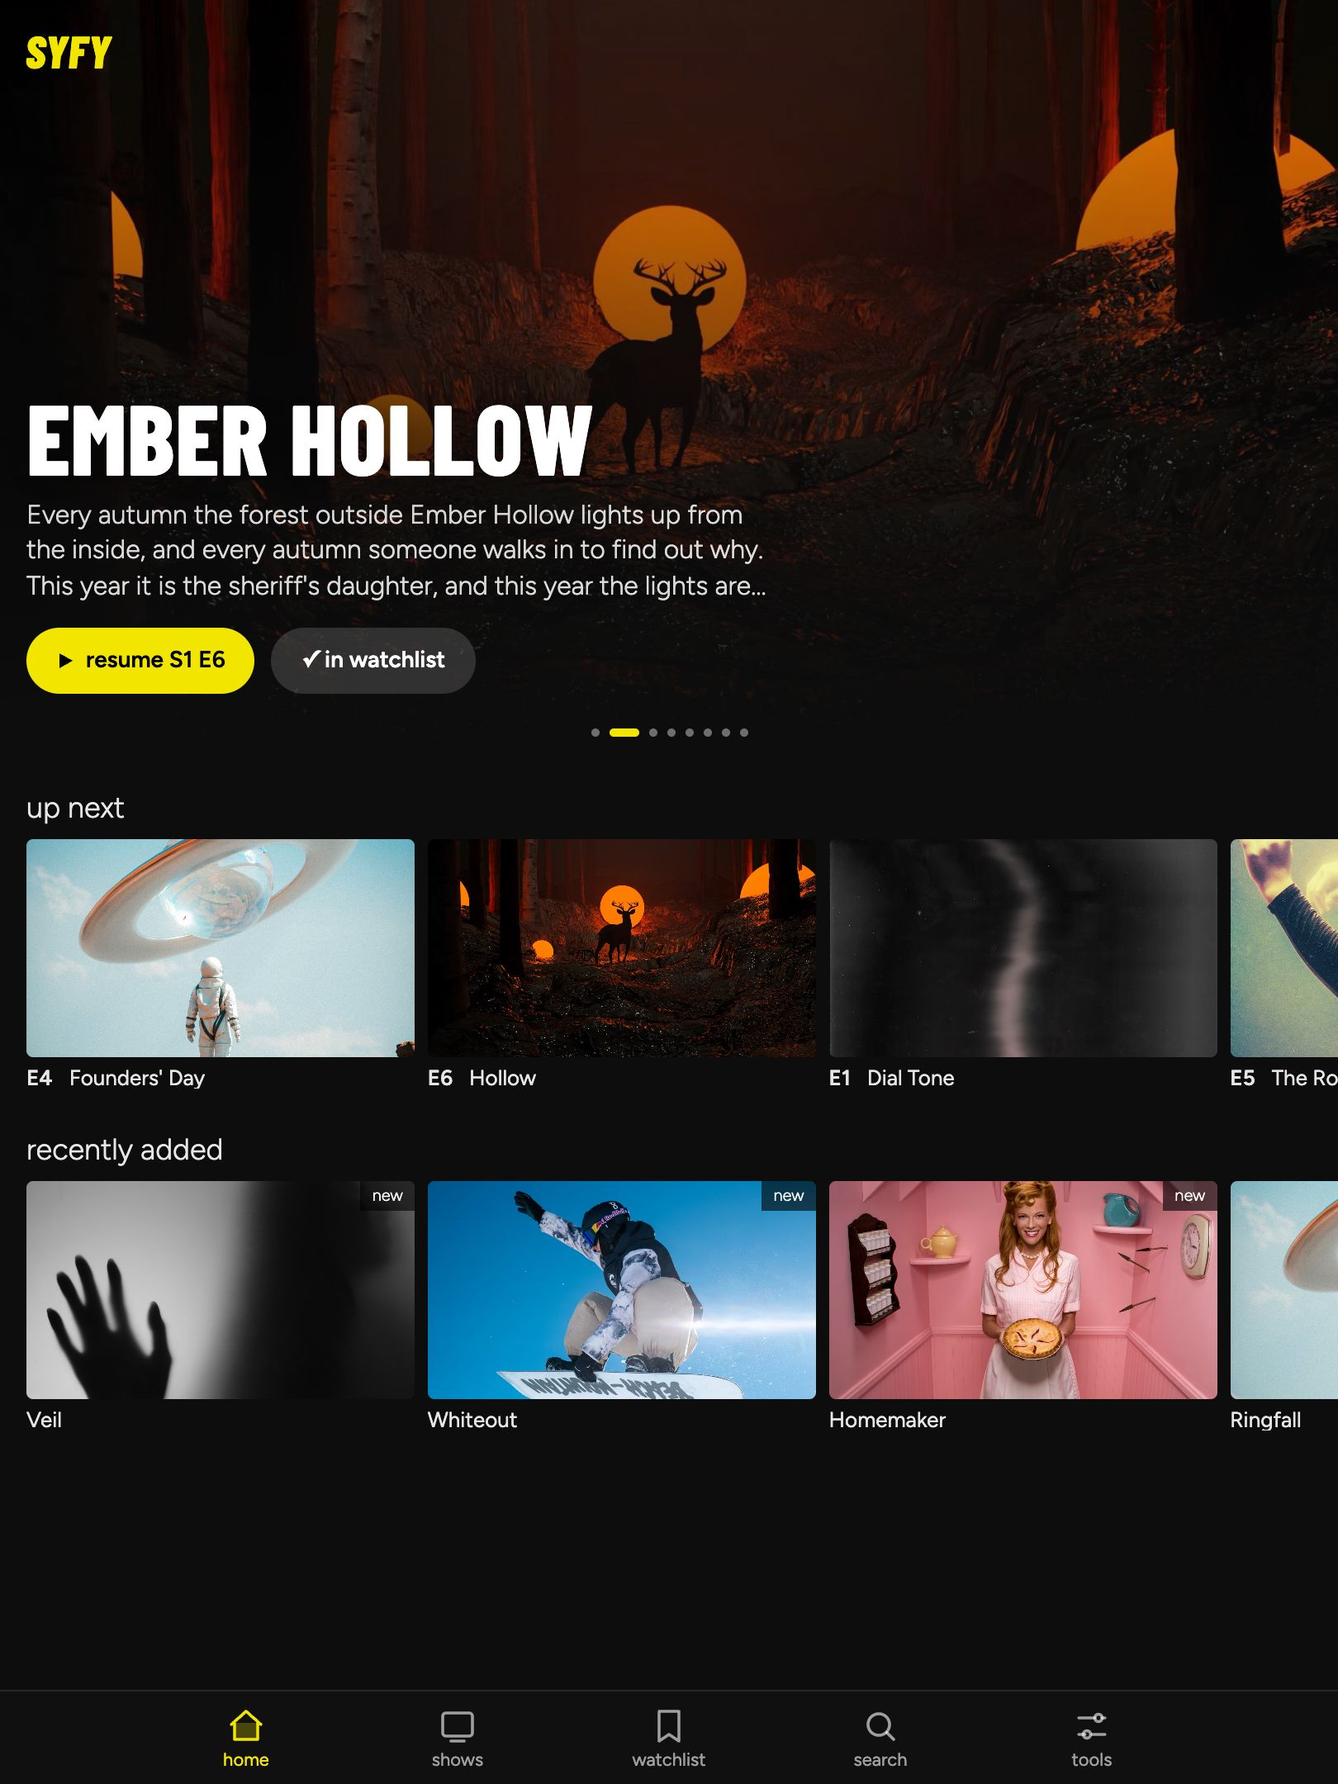
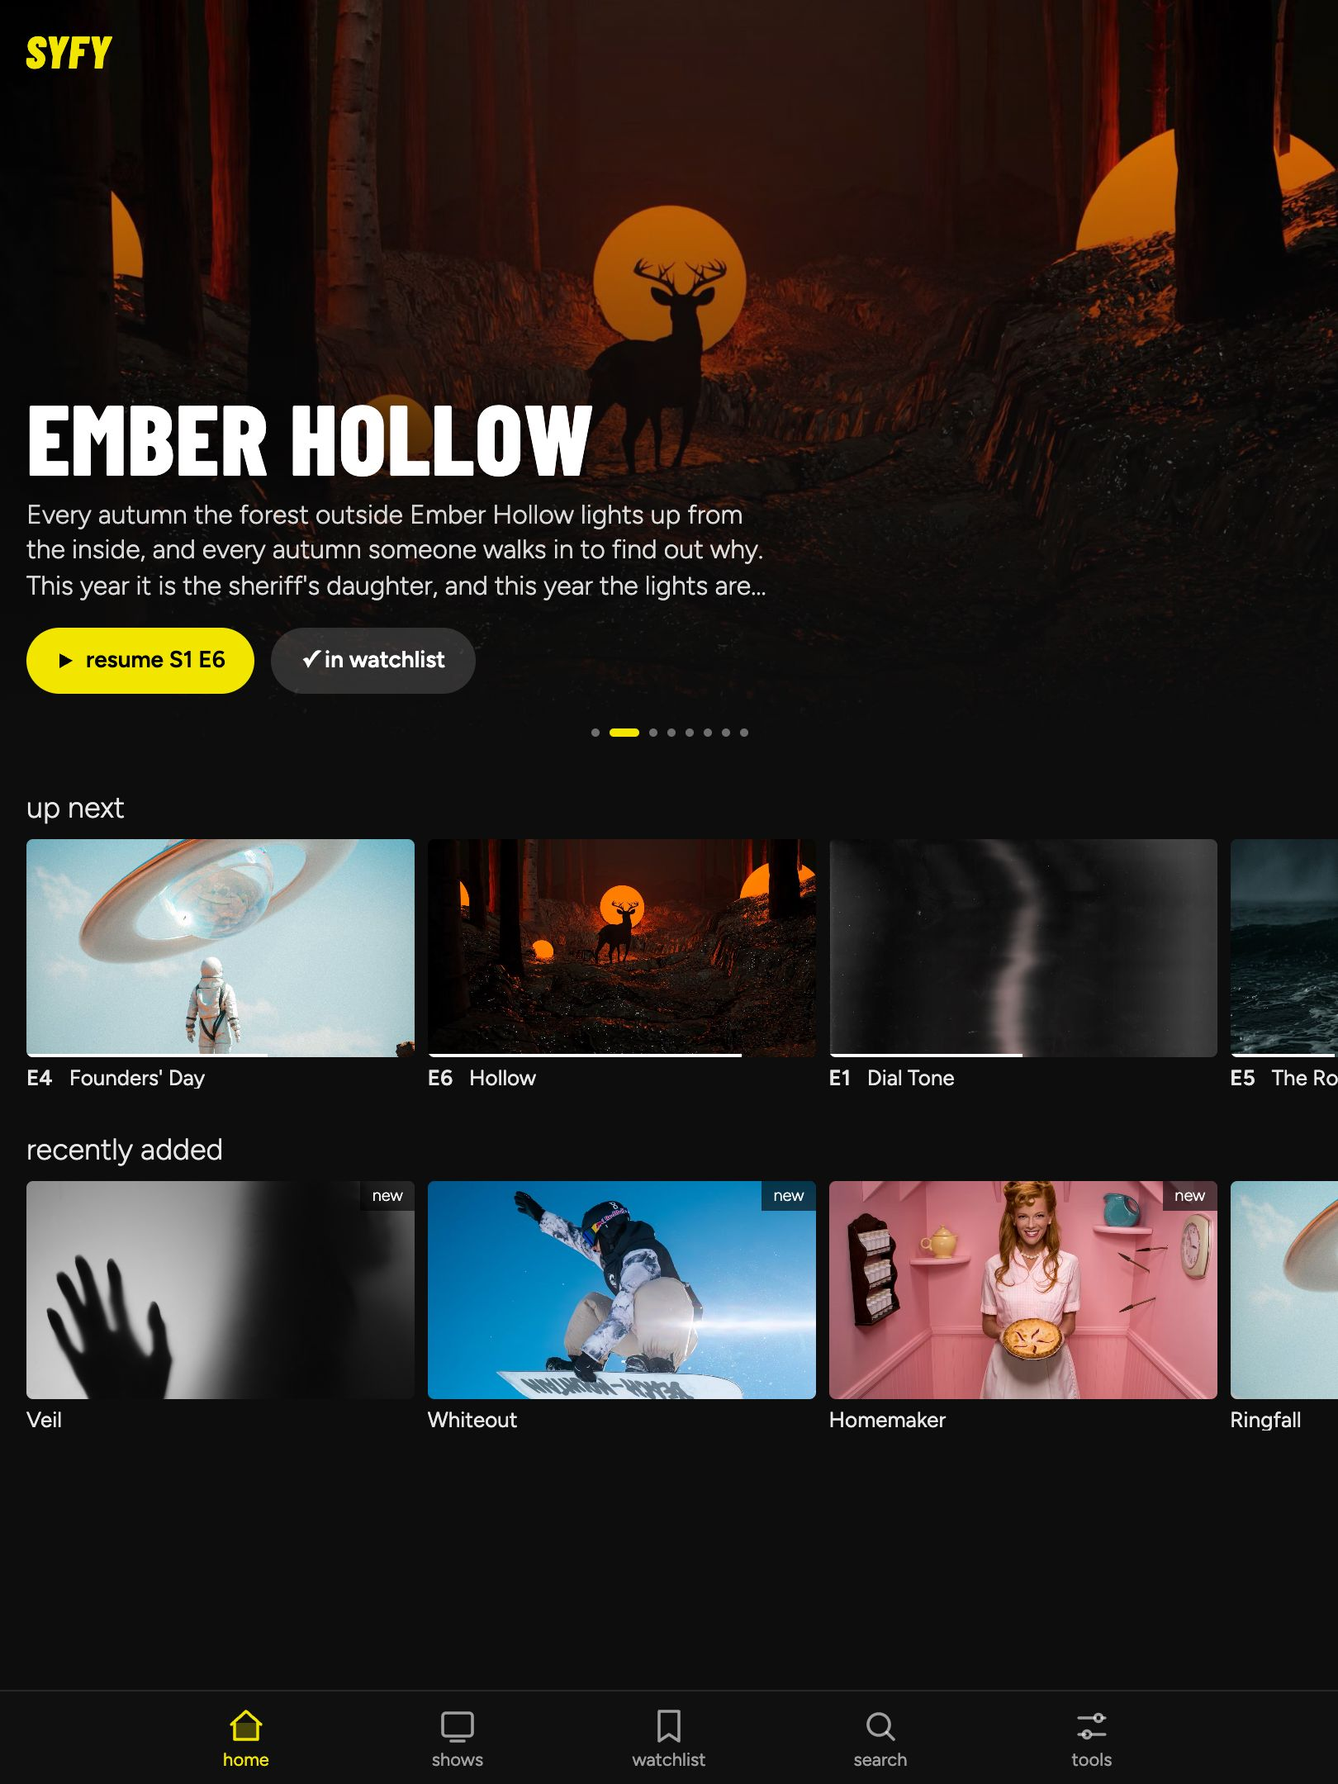
Dwell tile overlay and the progress stroke on every episode tile (#30)
A 1.2 s dwell on an episode tile fades in the tile overlay over the open
590x332 tile: the still darkened to black 55%, the show's name and the
S<n> E<n> label, info / play / add, and the synopsis capped at three
lines (Rob's picks from the prototype on `prototype/dwell-overlay`). The
tile keeps focus: Left/Right step the selection (starting on play, so a
dwell never changes what Enter does), past either end leave the tile,
and moving focus hides the overlay at once. info opens the show page
(on the show page it goes up to the +), add toggles the watchlist.

Every episode tile draws the 2 px progress stroke from
EpisodeRef.progress, on TV, phone and tablet; show and movie tiles do
not. On the Watchlist a show removed from its own row keeps the row
until the screen is left, so focus never sits on a vanished row.

Tokens duration.dwell and overlayFade; glossary, style guide (focus and
states, motion, typography, quick reference) and ADR 001 / 004 notes.
Screens re-captured where strokes or the overlay show, plus a new
tile-overlay capture.

Part of #25

Changed region(s): [[0.8951, 0.4653, 1.0, 0.6204]]

diff --git a/src/components/Row.tsx b/src/components/Row.tsx
@@ -1,9 +1,13 @@
-import { useEffect, useState, type ReactNode } from 'react'
+import { useEffect, useRef, useState, type ReactNode } from 'react'
+import { useNavigate } from 'react-router'
 import { motion } from 'motion/react'
 import { useFocusable, useFocusedId } from '../focus/FocusEngine'
 import { useMotion } from '../motion/useMotion'
 import { distance } from '../motion/tokens'
+import { useSettings } from '../state/settings'
+import type { EpisodeRef } from '../data/catalogue'
 import { Badge } from './Badge'
+import { OVERLAY_BUTTONS, OVERLAY_START, ProgressStroke, TileOverlay, useDwell, type OverlayButton } from './TileOverlay'
 
 /*
  * A row of tiles with a label. Two modes, both from the screenshots:
@@ -15,7 +19,9 @@ import { Badge } from './Badge'
  * The row is a carousel anchored at x=200: the current tile sits at the safe
  * inset and the previous one peeks in from the left edge. Strip, widths and
  * height move on the `strip` spring; the focused tile lifts on `focus`;
- * tiles settle in with a stagger when the screen enters.
+ * tiles settle in with a stagger when the screen enters. Episode tiles
+ * (`episode` set) draw the progress stroke, and a dwell on one reveals the
+ * tile overlay (issue #30, `TileOverlay.tsx`).
  */
 
 export const PLAIN = { w: 318, h: 179, gap: 2 }
@@ -36,8 +42,12 @@ export type RowItem = {
   label?: ReactNode
   badge?: 'new' | 'expiring'
   onSelect: () => void
-  /** Extra content drawn over the tile (the Player's countdown ring). */
+  /** Extra content drawn over the tile (the Player's countdown ring). A tile with one gets no tile overlay. */
   overlay?: ReactNode
+  /** An episode tile: draws the progress stroke, and a dwell reveals the tile overlay. */
+  episode?: EpisodeRef
+  /** The overlay's `info`; opens the show page when absent. */
+  onInfo?: () => void
 }
 
 type Props = {
@@ -106,7 +116,42 @@ export function Row({ id, label, items, mode = 'auto', initialIndex = 0, aside, 
 
 function Tile({ rowId, item, big, current }: { rowId: string; item: RowItem; big: boolean; current: boolean }) {
   const m = useMotion()
-  const { focused, props } = useFocusable(rowTileId(rowId, item.id), { onSelect: item.onSelect })
+  const navigate = useNavigate()
+  const { inWatchlist, toggleWatchlist } = useSettings()
+  const id = rowTileId(rowId, item.id)
+  const focusedId = useFocusedId()
+  const ep = item.episode
+  // A dwell on an episode tile reveals the tile overlay; a tile already carrying an overlay (the countdown ring) keeps it.
+  const dwelling = useDwell(focusedId === id && !!ep && !item.overlay)
+  // The overlay's selected button: a ref as well, so presses faster than a render still step one at a time.
+  const [selected, setSelectedState] = useState(OVERLAY_START)
+  const selectedRef = useRef(OVERLAY_START)
+  const setSelected = (i: number) => {
+    selectedRef.current = i
+    setSelectedState(i)
+  }
+  useEffect(() => {
+    if (!dwelling) setSelected(OVERLAY_START)
+  }, [dwelling])
+
+  const run = (button: OverlayButton) => {
+    if (!ep) return
+    if (button === 'play') item.onSelect()
+    else if (button === 'info') (item.onInfo ?? (() => navigate(`/show/${ep.show.id}`)))()
+    else toggleWatchlist(ep.show.id)
+  }
+  const { focused, props } = useFocusable(id, {
+    onSelect: dwelling ? () => run(OVERLAY_BUTTONS[selectedRef.current]) : item.onSelect,
+    // Left/Right step through info, play, add; past either end the arrow leaves the tile as usual.
+    onKey: (key) => {
+      if (!dwelling) return false
+      const step = key === 'ArrowLeft' ? -1 : key === 'ArrowRight' ? 1 : 0
+      const to = selectedRef.current + step
+      if (!step || to < 0 || to >= OVERLAY_BUTTONS.length) return false
+      setSelected(to)
+      return true
+    },
+  })
   const w = current ? BIG.focusW : big ? BIG.w : PLAIN.w
   const h = current ? BIG.focusH : big ? BIG.h : PLAIN.h
   return (
@@ -131,9 +176,18 @@ function Tile({ rowId, item, big, current }: { rowId: string; item: RowItem; big
             className="h-full w-full object-cover"
             style={{ objectPosition: item.artFocus }}
           />
+          {dwelling && ep && (
+            <TileOverlay
+              episode={ep}
+              label={<EpisodeLabel season={ep.season.number} number={ep.episode.number} title={ep.episode.title} />}
+              selected={selected}
+              added={inWatchlist(ep.show.id)}
+            />
+          )}
+          {ep && <ProgressStroke progress={ep.progress} />}
           {item.badge && <Badge kind={item.badge} />}
           {item.overlay}
-          {current && item.label && (
+          {current && item.label && !dwelling && (
             <div className="absolute bottom-[14px] left-[20px] right-[20px] truncate text-[25px] leading-none text-white drop-shadow-[0_1px_6px_rgba(0,0,0,0.9)]">
               {item.label}
             </div>

diff --git a/src/components/TileOverlay.tsx b/src/components/TileOverlay.tsx
@@ -1,0 +1,66 @@
+import { useEffect, useState, type ReactNode } from 'react'
+import { motion } from 'motion/react'
+import { duration } from '../motion/tokens'
+import { useMotion } from '../motion/useMotion'
+import type { EpisodeRef } from '../data/catalogue'
+import { RoundFace } from './RoundButton'
+
+/*
+ * The tile overlay (issue #30): what a dwell on an episode tile reveals.
+ * The tile keeps focus while the overlay is up; Left/Right move a selection
+ * between its three buttons (the tile's `onKey`), Enter runs the selected
+ * one, and an arrow past either end leaves the tile as usual. The selection
+ * starts on `play`, so a dwell never changes what Enter does.
+ *
+ * Rob's picks from the prototype (4 Nov, branch `prototype/dwell-overlay`):
+ * one stack on the 24 px inset (show, episode, buttons, synopsis), the still
+ * darkened to black 55%, the synopsis capped at three lines, a 1.2 s dwell.
+ * Focus always opens a tile to 590x332, so the overlay is only ever drawn there.
+ */
+
+export const OVERLAY_BUTTONS = ['info', 'play', 'add'] as const
+export type OverlayButton = (typeof OVERLAY_BUTTONS)[number]
+export const OVERLAY_START = OVERLAY_BUTTONS.indexOf('play')
+
+/** True once `active` has held for the dwell; false the moment it drops. */
+export function useDwell(active: boolean, seconds: number = duration.dwell) {
+  const [dwelt, setDwelt] = useState(false)
+  useEffect(() => {
+    setDwelt(false)
+    if (!active) return
+    const timer = window.setTimeout(() => setDwelt(true), seconds * 1000)
+    return () => window.clearTimeout(timer)
+  }, [active, seconds])
+  return active && dwelt
+}
+
+/** The 2px watch-position line along an episode tile's bottom edge; absent at zero. */
+export function ProgressStroke({ progress }: { progress: number }) {
+  if (progress <= 0) return null
+  return <div className="absolute bottom-0 left-0 h-[2px] bg-white" style={{ width: `${Math.min(1, progress) * 100}%` }} />
+}
+
+/** The overlay over a 590x332 tile: show name, episode label, the three buttons and the synopsis. */
+export function TileOverlay({ episode, label, selected, added }: { episode: EpisodeRef; label: ReactNode; selected: number; added: boolean }) {
+  const m = useMotion()
+  return (
+    <motion.div className="absolute inset-0 bg-black/55" initial={{ opacity: 0 }} animate={{ opacity: 1 }} transition={m.overlay}>
+      <div className="absolute inset-0 flex flex-col items-start p-[24px] drop-shadow-[0_1px_6px_rgba(0,0,0,0.6)]">
+        <div className="text-[23px] font-light uppercase leading-none tracking-[0.04em] text-white/85">{episode.show.title}</div>
+        <div className="mt-[8px] max-w-full truncate text-[25px] leading-[1.1] text-white">{label}</div>
+        <div className="mt-[22px] flex items-center gap-[20px] pl-[3px]">
+          <RoundFace focused={selected === 0}>
+            <span className="font-serif text-[32px] italic leading-none">i</span>
+          </RoundFace>
+          <RoundFace focused={selected === 1} filled>
+            <svg width="22" height="26" viewBox="0 0 22 26" className="ml-[4px]" fill="currentColor">
+              <path d="M0 0 22 13 0 26z" />
+            </svg>
+          </RoundFace>
+          <RoundFace focused={selected === 2}>{added ? '✓' : '+'}</RoundFace>
+        </div>
+        <p className="mt-[20px] line-clamp-3 max-w-[540px] text-[23px] font-light leading-[1.3] text-white">{episode.episode.synopsis}</p>
+      </div>
+    </motion.div>
+  )
+}

diff --git a/src/screens/ShowDetail.tsx b/src/screens/ShowDetail.tsx
@@ -4,7 +4,7 @@ import { motion, useIsPresent } from 'motion/react'
 import { Nav } from '../components/Nav'
 import { EpisodeLabel, Row, type RowItem } from '../components/Row'
 import { RoundButton } from '../components/RoundButton'
-import { useFocusable, useFocusedId, useScreenFocus } from '../focus/FocusEngine'
+import { useFocusable, useFocusContext, useFocusedId, useScreenFocus } from '../focus/FocusEngine'
 import { useSettings, useWatch } from '../state/settings'
 import { FULL_CLIP, fromHeroPanel, morph, useFlight, useMotion } from '../motion/useMotion'
 import { distance, duration } from '../motion/tokens'
@@ -65,6 +65,7 @@ function ShowPage({ show }: { show: Show }) {
   // The nav is shown while focus is on the + (or in the nav) and hidden while it is below, on the season tabs or episodes.
   // Once the page starts leaving, the nav stays as it was.
   const focusedId = useFocusedId()
+  const { setFocus } = useFocusContext()
   const present = useIsPresent()
   const below = !!focusedId && (focusedId.startsWith(`season:${show.id}:`) || focusedId.startsWith(`episodes:${show.id}:`))
   const [navShown, setNavShown] = useState(true)
@@ -83,9 +84,12 @@ function ShowPage({ show }: { show: Show }) {
           badge: episodeBadge(ref),
           label: <EpisodeLabel number={episode.number} title={episode.title} />,
           onSelect: () => navigate(`/play/${show.id}/${season.number}/${episode.number}`),
+          episode: ref,
+          // Already on the show page: info goes up to the +, where every arrival lands.
+          onInfo: () => setFocus(`show:${show.id}:add`),
         }
       }),
-    [show, season, watch, navigate],
+    [show, season, watch, navigate, setFocus],
   )
 
   // Tabs sit in a fixed line from x=200 and never slide: selecting a season changes weight only.

diff --git a/src/components/RoundButton.tsx b/src/components/RoundButton.tsx
@@ -17,21 +17,30 @@ export function RoundButton({
   filled?: boolean
   label?: string
 }) {
-  const m = useMotion()
   const { focused, props } = useFocusable(id, { onSelect })
   return (
     <div {...props} className="flex items-center gap-[16px]" title={label}>
-      <motion.span
-        className={`flex h-[60px] w-[60px] items-center justify-center rounded-full border-[3px] text-[34px] font-light leading-none transition-colors duration-(--motion-quick) ${
-          filled ? 'border-white bg-[#3aa551]' : 'border-white/90'
-        } ${focused ? 'bg-white text-black' : 'text-white'}`}
-        initial={false}
-        animate={{ scale: focused ? m.focusScale : 1 }}
-        transition={m.focus(focused)}
-      >
+      <RoundFace focused={focused} filled={filled}>
         {children}
-      </motion.span>
+      </RoundFace>
       {label && focused && <span className="text-[25px] font-light text-white">{label}</span>}
     </div>
+  )
+}
+
+/** The round button's face alone, for controls that are not focusables of their own (the tile overlay's buttons). */
+export function RoundFace({ focused, filled, children }: { focused: boolean; filled?: boolean; children: ReactNode }) {
+  const m = useMotion()
+  return (
+    <motion.span
+      className={`flex h-[60px] w-[60px] items-center justify-center rounded-full border-[3px] text-[34px] font-light leading-none transition-colors duration-(--motion-quick) ${
+        focused ? 'border-white bg-white text-black' : filled ? 'border-white bg-[#3aa551] text-white' : 'border-white/90 text-white'
+      }`}
+      initial={false}
+      animate={{ scale: focused ? m.focusScale : 1 }}
+      transition={m.focus(focused)}
+    >
+      {children}
+    </motion.span>
   )
 }

diff --git a/src/screens/Watchlist.tsx b/src/screens/Watchlist.tsx
@@ -1,4 +1,4 @@
-import { useMemo } from 'react'
+import { useEffect, useMemo, useState } from 'react'
 import { motion } from 'motion/react'
 import { useNavigate } from 'react-router'
 import { Nav } from '../components/Nav'
@@ -38,12 +38,19 @@ export function Watchlist() {
     badge: episodeBadge(ref),
     label: <EpisodeLabel number={ref.episode.number} title={ref.episode.title} />,
     onSelect: () => navigate(`/play/${ref.show.id}/${ref.season.number}/${ref.episode.number}`),
+    episode: ref,
   })
 
   const upNext = useMemo(() => upNextFor(brand, watch).map(toItem), [brand, watch]) // eslint-disable-line react-hooks/exhaustive-deps
+  // A show removed with a tile overlay's `add` keeps its row (its + back to a +) until the screen is left,
+  // so focus never sits on a row that vanished and a second press puts it back.
+  const [listed, setListed] = useState(settings.watchlist)
+  useEffect(() => {
+    setListed((prev) => [...prev, ...settings.watchlist.filter((id) => !prev.includes(id))])
+  }, [settings.watchlist])
   const shows = useMemo(
-    () => settings.watchlist.map(showById).filter((s): s is Show => !!s && s.brand === brand),
-    [settings.watchlist, brand],
+    () => listed.map(showById).filter((s): s is Show => !!s && s.brand === brand),
+    [listed, brand],
   )
 
   useScreenFocus(`watchlist:${brand}`, 'nav:watchlist')

diff --git a/src/mobile/ShowDetail.tsx b/src/mobile/ShowDetail.tsx
@@ -3,6 +3,7 @@ import { Navigate, useNavigate, useParams } from 'react-router'
 import { useSettings, useWatch } from '../state/settings'
 import { BackButton, MiniBadge, Pill, Pressable, TextTabs } from './ui'
 import { PlayGlyph, playTarget } from './Home'
+import { ProgressStroke } from '../components/TileOverlay'
 import { artUrl, episodeBadge, showById, stillArt, stillFocus, toEpisodeRef, type Show } from '../data/catalogue'
 
 export function MobileShowDetail() {
@@ -68,6 +69,7 @@ function ShowPage({ show }: { show: Show }) {
                 <div className="relative aspect-video w-[42%] shrink-0 overflow-hidden rounded-[4px] bg-black/40 md:w-[200px]">
                   <img src={artUrl(stillArt(ref))} alt="" draggable={false} className="h-full w-full object-cover" style={{ objectPosition: stillFocus(ref) }} />
                   {badge && <MiniBadge kind={badge} />}
+                  <ProgressStroke progress={ref.progress} />
                   <span className="absolute left-1/2 top-1/2 flex h-[30px] w-[30px] -translate-x-1/2 -translate-y-1/2 items-center justify-center rounded-full bg-black/50 text-white">
                     <PlayGlyph />
                   </span>

diff --git a/src/mobile/ui.tsx b/src/mobile/ui.tsx
@@ -5,6 +5,7 @@ import { useMotion } from '../motion/useMotion'
 import { useSettings } from '../state/settings'
 import { Logo } from '../components/Logo'
 import type { RowItem } from '../components/Row'
+import { ProgressStroke } from '../components/TileOverlay'
 
 /* Touch primitives shared by the mobile screens. Sizes are CSS px. */
 
@@ -103,6 +104,7 @@ export function MobileRow({ label, items, className = '' }: { label: ReactNode; 
                 <img src={item.art} alt="" draggable={false} className="h-full w-full object-cover" style={{ objectPosition: item.artFocus }} />
                 {item.badge && <MiniBadge kind={item.badge} />}
                 {item.overlay}
+                {item.episode && <ProgressStroke progress={item.episode.progress} />}
               </div>
               {item.label && <div className="mt-[6px] truncate text-[13px] leading-none text-white/90">{item.label}</div>}
             </Pressable>

diff --git a/src/screens/Player.tsx b/src/screens/Player.tsx
@@ -119,6 +119,7 @@ function Playback({ current }: { current: EpisodeRef }) {
           badge: episodeBadge(ref),
           label: <EpisodeLabel season={current.season.number} number={episode.number} title={episode.title} />,
           onSelect: () => play(ref),
+          episode: ref,
           overlay: isNext ? <CountdownRing value={countdown} /> : undefined,
         }
       }),
@@ -138,6 +139,7 @@ function Playback({ current }: { current: EpisodeRef }) {
           badge: episodeBadge(r),
           label: <EpisodeLabel season={r.season.number} number={r.episode.number} title={r.episode.title} />,
           onSelect: () => play(r),
+          episode: r,
         })),
     // eslint-disable-next-line react-hooks/exhaustive-deps
     [settings.brand],

diff --git a/src/motion/useMotion.ts b/src/motion/useMotion.ts
@@ -50,6 +50,8 @@ export function useMotion() {
     fade: fade(reduced ? duration.reduced : duration.screenFade),
     quick: fade(reduced ? duration.reduced : duration.quick),
     backdropFade: fade(reduced ? duration.reduced : duration.backdropFade),
+    /** The tile overlay fading in after a dwell. */
+    overlay: fade(reduced ? duration.reduced : duration.overlayFade),
     /** Opacity-only part of a screen: fades with the screen's enter/exit. */
     part: {
       hidden: { opacity: 0, transition: fade(reduced ? duration.reduced : duration.screenFade) },

diff --git a/src/motion/tokens.ts b/src/motion/tokens.ts
@@ -57,6 +57,10 @@ export const duration = {
   reduced: 0.15,
   /** Mobile Player: the chrome hides this long after the last tap while playing. */
   chromeHide: 3,
+  /** Focus resting on an episode tile this long is a dwell: the tile overlay fades in (issue #30). */
+  dwell: 1.2,
+  /** The tile overlay fading in after a dwell. It leaves at once when focus moves. */
+  overlayFade: 0.2,
 } as const
 
 export const stagger = {

diff --git a/src/mobile/Watchlist.tsx b/src/mobile/Watchlist.tsx
@@ -19,6 +19,7 @@ export function MobileWatchlist() {
     badge: episodeBadge(ref),
     label: <EpisodeLabel number={ref.episode.number} title={ref.episode.title} />,
     onSelect: () => navigate(`/play/${ref.show.id}/${ref.season.number}/${ref.episode.number}`),
+    episode: ref,
   })
 
   const upNext = useMemo(() => upNextFor(brand, watch).map(toItem), [brand, watch]) // eslint-disable-line react-hooks/exhaustive-deps

diff --git a/src/mobile/Home.tsx b/src/mobile/Home.tsx
@@ -34,6 +34,7 @@ export function MobileHome() {
         badge: episodeBadge(ref),
         label: <EpisodeLabel number={ref.episode.number} title={ref.episode.title} />,
         onSelect: () => navigate(`/play/${ref.show.id}/${ref.season.number}/${ref.episode.number}`),
+        episode: ref,
       })),
     [brand, watch, navigate],
   )
